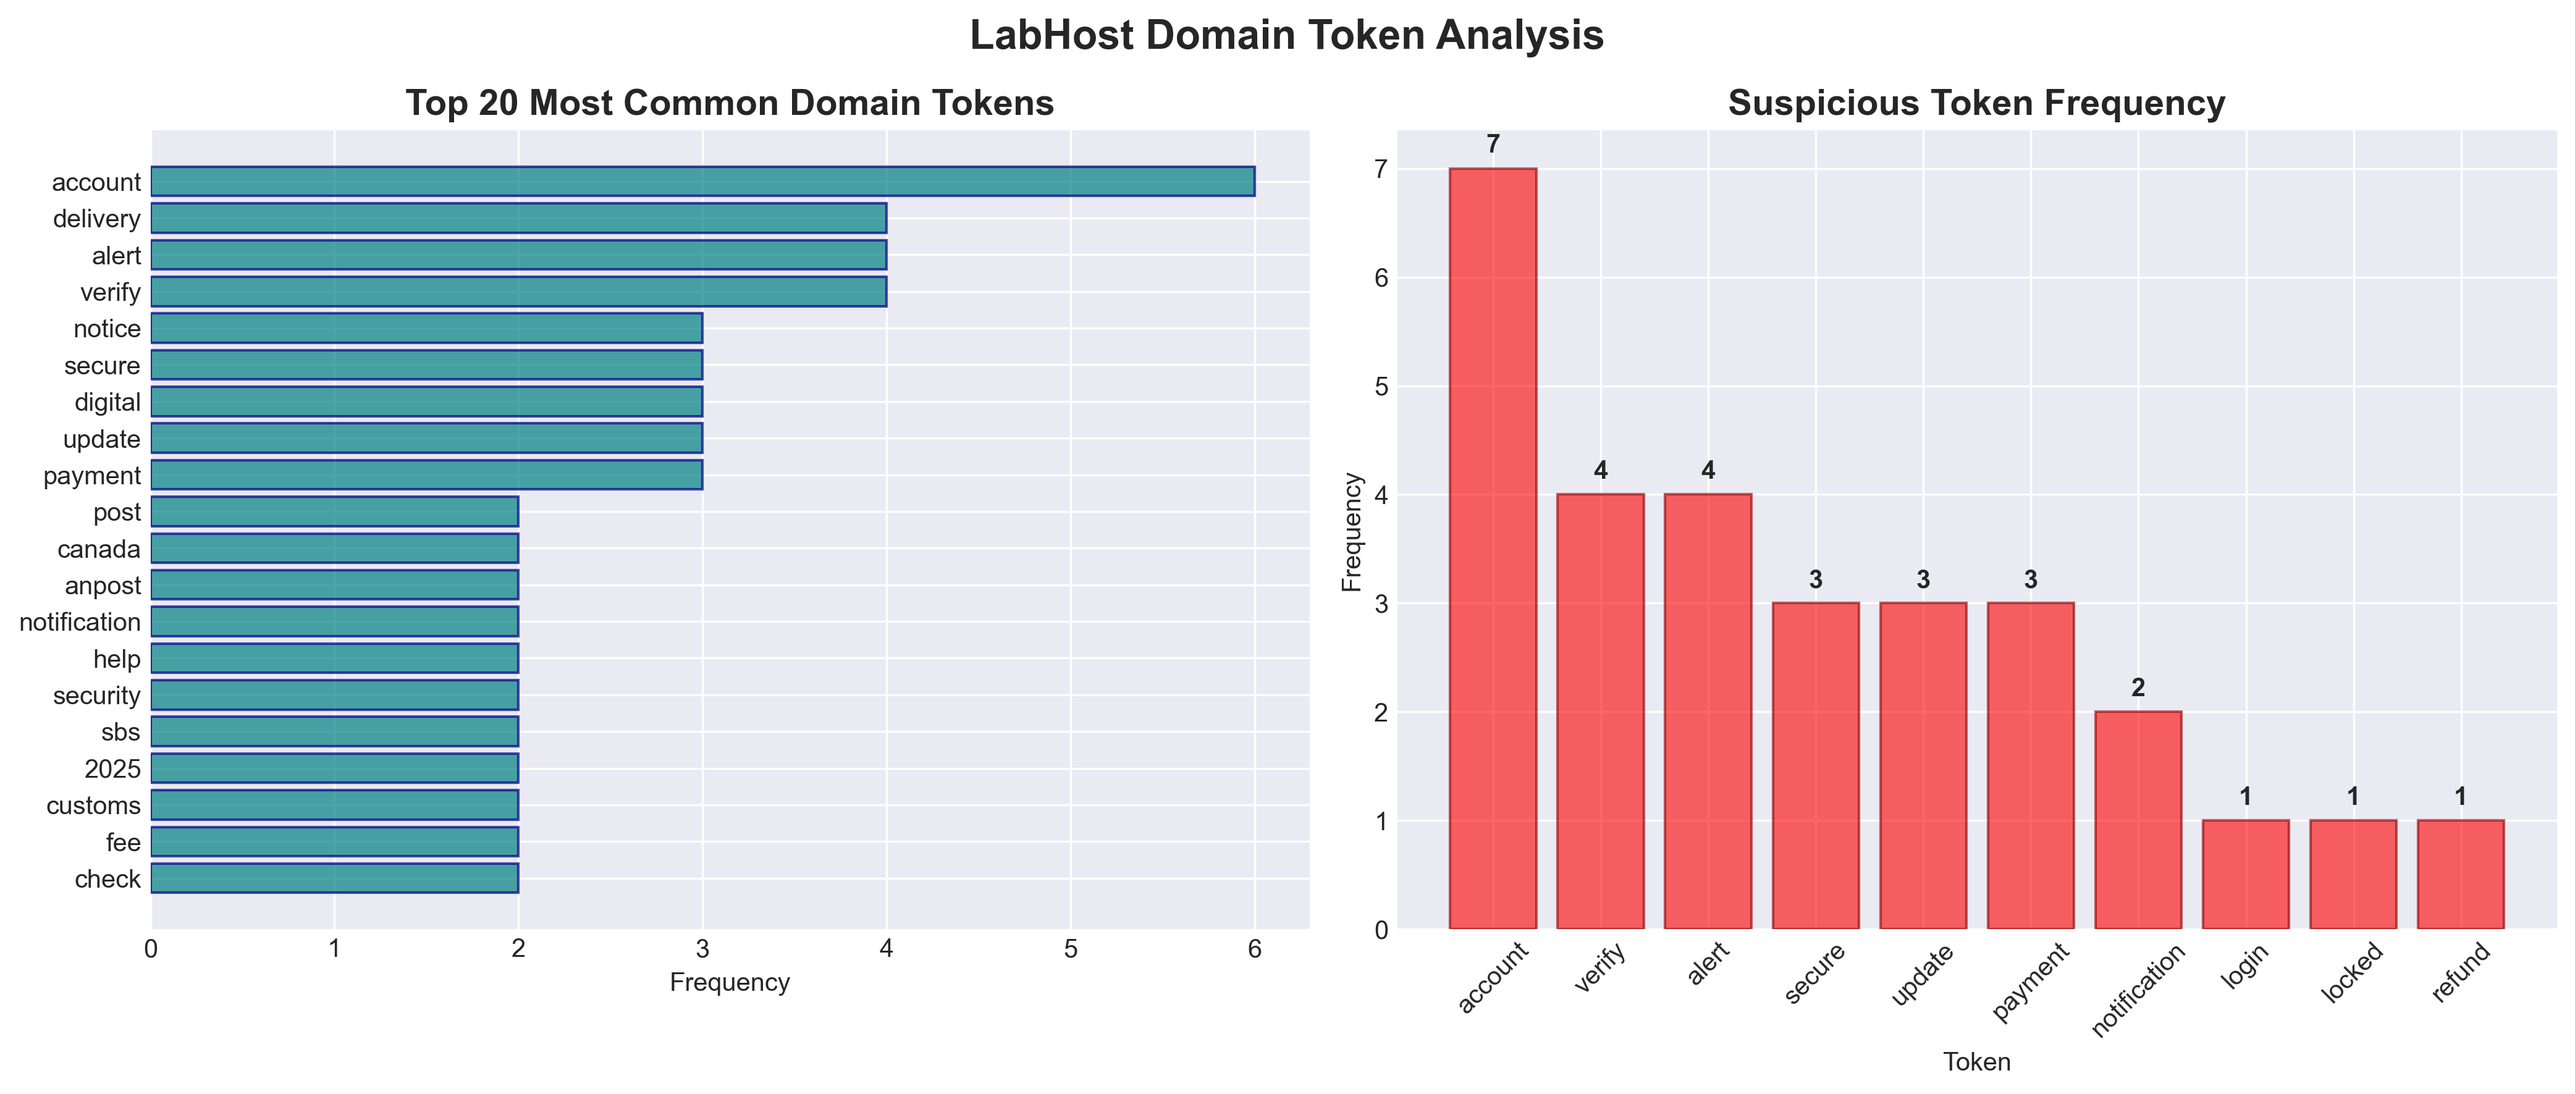
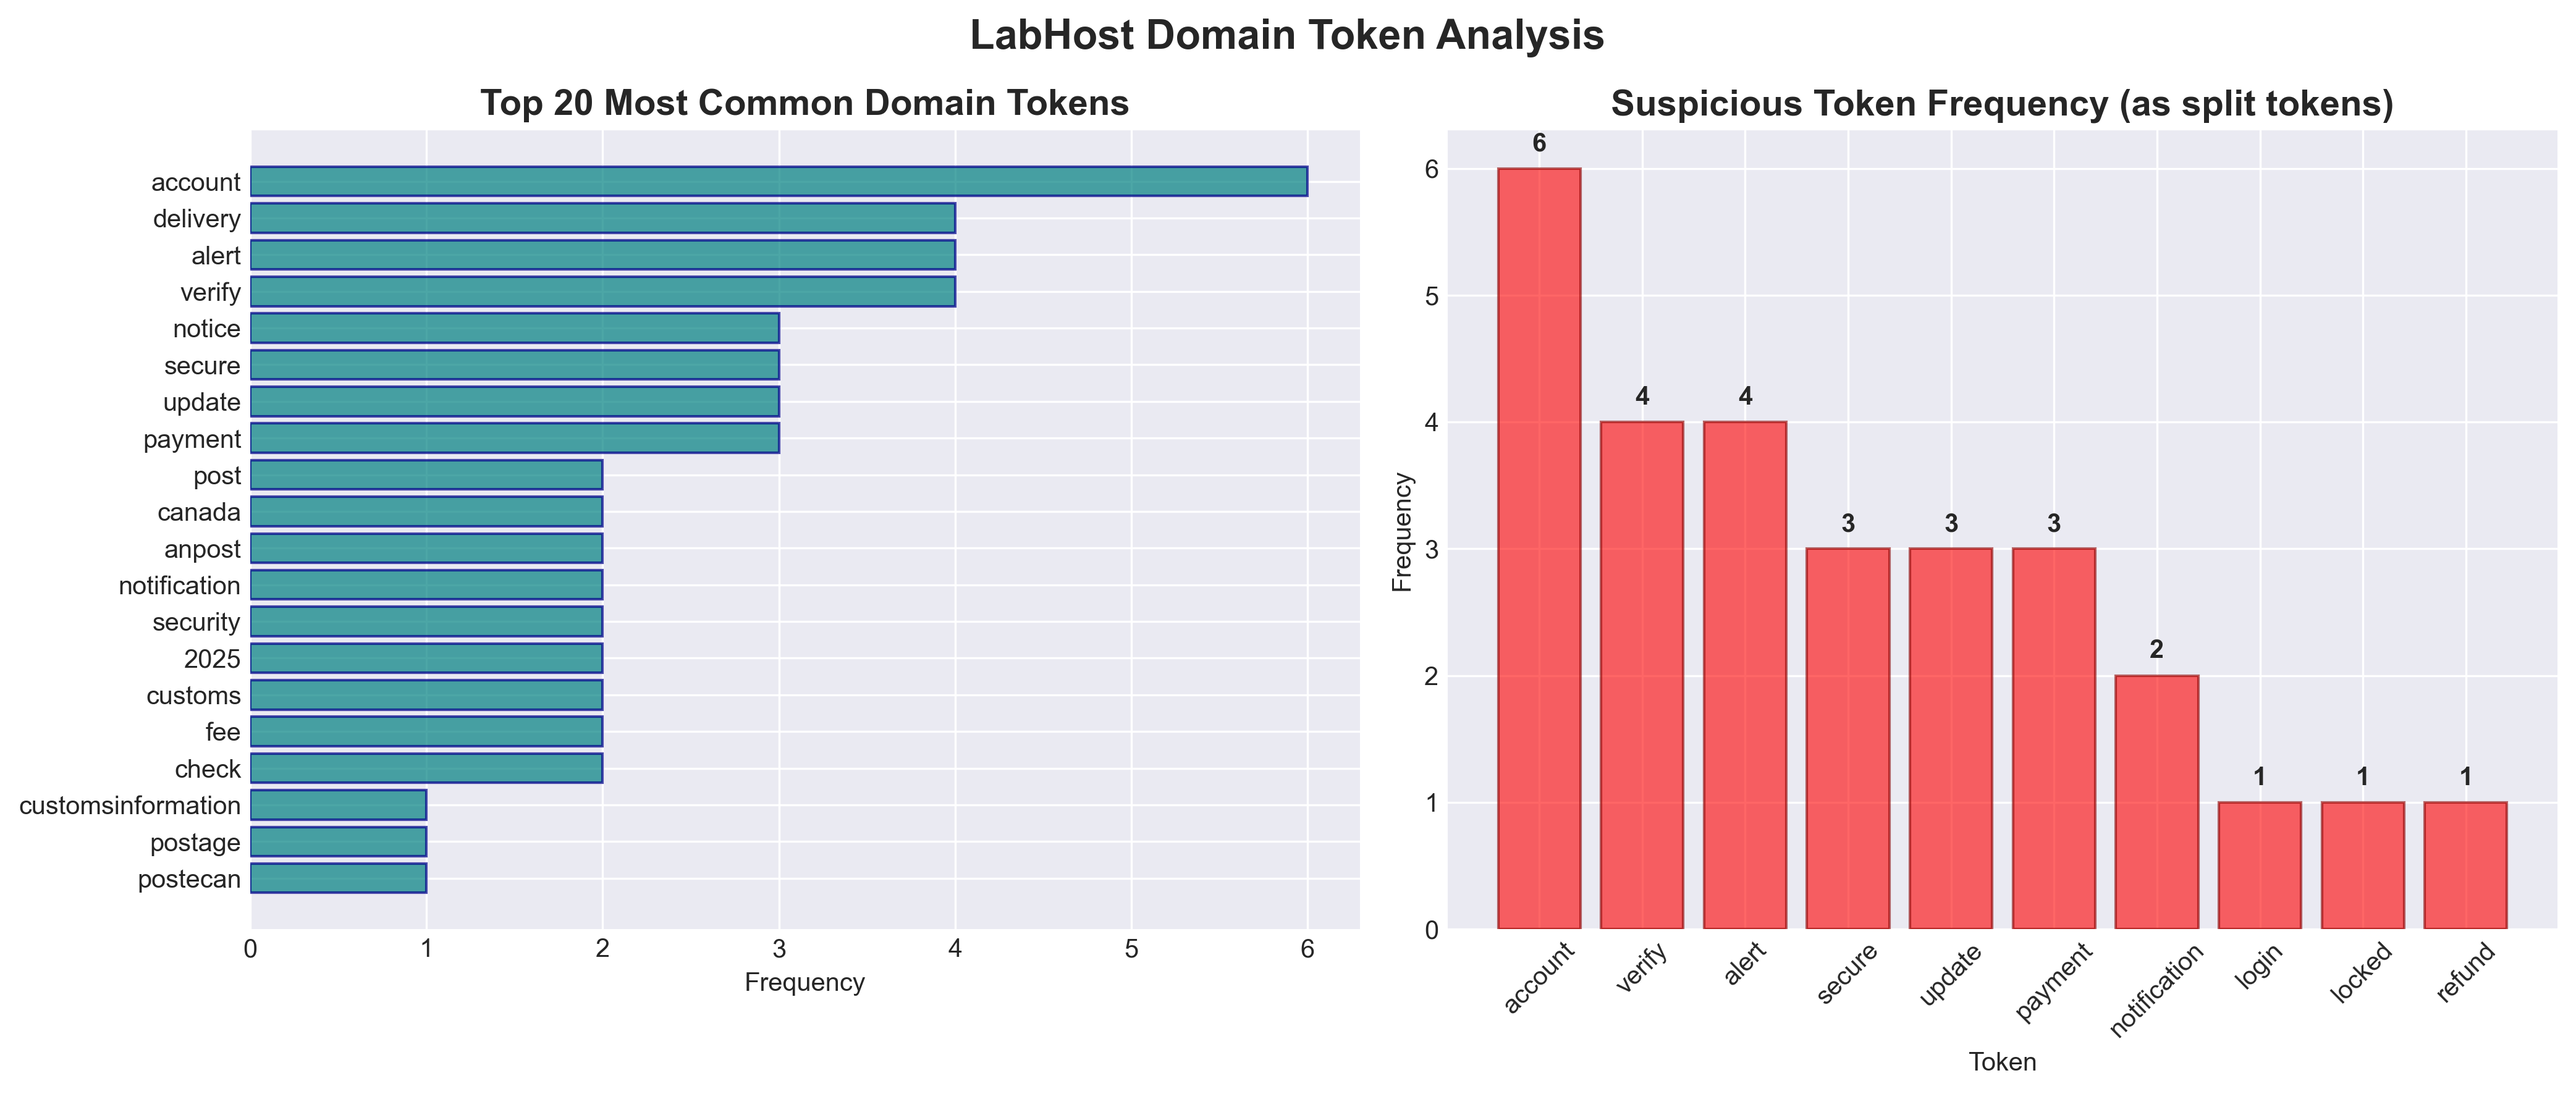
Work on plots, code and tables

diff --git a/labhost_measurement.py b/labhost_measurement.py
@@ -70,7 +70,7 @@ BRAND_KEYWORDS = {
 # Suspicious tokens commonly used in phishing
 SUSPICIOUS_TOKENS = [
     'secure', 'login', 'verify', 'update', 'confirm', 'account', 'suspended', 
-    'alert', 'notification', 'urgent', 'action', 'required', 'locked', 'verify',
+    'alert', 'notification', 'urgent', 'action', 'required', 'locked',
     'billing', 'payment', 'refund', 'claim', 'prize', 'winner', 'expire'
 ]
 
@@ -445,10 +445,10 @@ def generate_brand_targeting_chart(sample_data, output_path):
     print(f"[+] Brand targeting chart saved to: {output_path}")
 
 def generate_word_cloud_visual(sample_data, output_path):
-    """Generate word cloud visualization of common tokens"""
+    """Generate word cloud visualization of common tokens - FIXED for consistency"""
     fig, (ax1, ax2) = plt.subplots(1, 2, figsize=(14, 6))
     
-    # Extract all tokens
+    # Extract all tokens by splitting domains
     all_tokens = []
     for d in sample_data:
         domain = d['domain'].lower()
@@ -456,7 +456,8 @@ def generate_word_cloud_visual(sample_data, output_path):
         all_tokens.extend(tokens)
     
     # Filter out TLDs and very short tokens
-    tlds = ['com', 'org', 'net', 'info', 'online', 'ca', 'uk', 'xyz', 'live', 'app']
+    tlds = ['com', 'org', 'net', 'info', 'online', 'ca', 'uk', 'xyz', 'live', 'app', 
+            'sbs', 'pw', 'me', 'co', 'help', 'autos', 'cfd', 'digital']
     filtered_tokens = [t for t in all_tokens if len(t) > 2 and t not in tlds]
     
     # Count tokens
@@ -469,18 +470,21 @@ def generate_word_cloud_visual(sample_data, output_path):
     ax1.set_title('Top 20 Most Common Domain Tokens', fontsize=14, fontweight='bold')
     ax1.set_xlabel('Frequency')
     
-    # Suspicious tokens frequency
+    # FIXED: Suspicious tokens frequency - count tokens the same way as left chart
+    # Count how many times each suspicious token appears as a split token
     suspicious_found = {}
     for token in SUSPICIOUS_TOKENS:
-        count = sum(1 for d in sample_data if token in d['domain'].lower())
+        # Count occurrences of this token in the split tokens list
+        count = filtered_tokens.count(token)
         if count > 0:
             suspicious_found[token] = count
     
     if suspicious_found:
+        # Sort by frequency and take top 10
         top_suspicious = dict(sorted(suspicious_found.items(), key=lambda x: x[1], reverse=True)[:10])
         bars = ax2.bar(top_suspicious.keys(), top_suspicious.values(), 
                       color='red', alpha=0.6, edgecolor='darkred')
-        ax2.set_title('Suspicious Token Frequency', fontsize=14, fontweight='bold')
+        ax2.set_title('Suspicious Token Frequency (as split tokens)', fontsize=14, fontweight='bold')
         ax2.set_xlabel('Token')
         ax2.set_ylabel('Frequency')
         ax2.tick_params(axis='x', rotation=45)

diff --git a/output/code/analysis_script.py b/output/code/analysis_script.py
@@ -1,3 +1,3 @@
 # This is the complete analysis script
 # See labhost_analysis_fixed.py for full implementation
-# Generated: 2025-11-03 10:34:39
+# Generated: 2025-11-03 15:19:41

diff --git a/output/tables/domain_analysis_summary.md b/output/tables/domain_analysis_summary.md
@@ -1,6 +1,6 @@
 # LabHost Domain Analysis - Detailed Results
 
-**Analysis Date:** 2025-11-03 10:34:42
+**Analysis Date:** 2025-11-03 15:19:44
 **Total Domains Analyzed:** 51
 
 ## Summary Statistics
@@ -8,7 +8,7 @@
 - **Average Domain Length:** 23.7 characters
 - **Domains with Hyphens:** 47 (92.2%)
 - **Domains with Numbers:** 7 (13.7%)
-- **Average Suspicious Score:** 0.71
+- **Average Suspicious Score:** 0.63
 
 ## Top 10 Sample Domains
 
